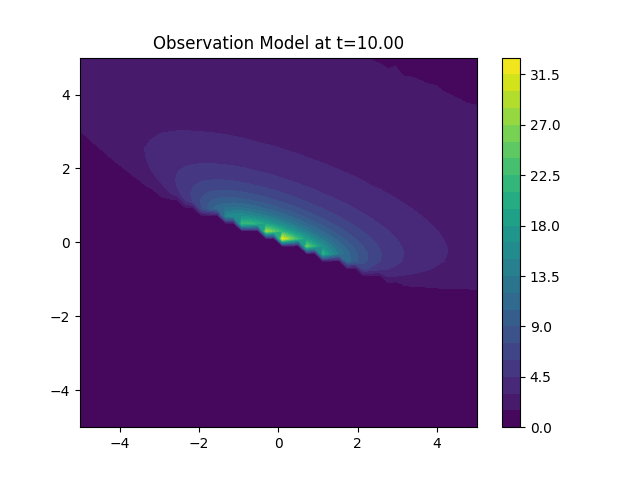
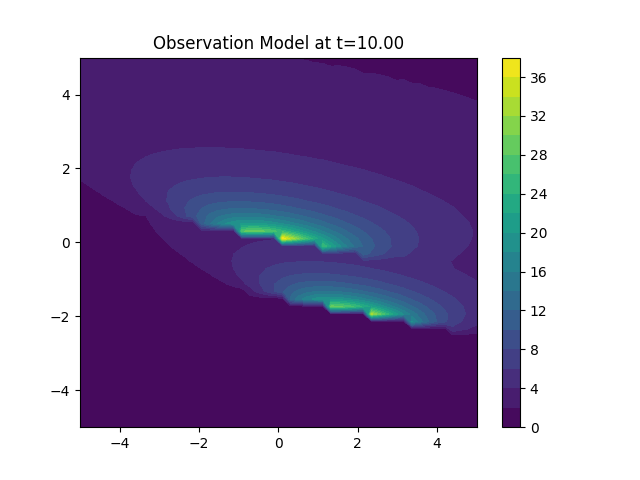
Multiple sources

diff --git a/Code/source_varying_functions.py b/Code/source_varying_functions.py
@@ -89,14 +89,20 @@ def A_matrix(x_sensor, y_sensor, constants, wind_vector=None):
     x_in = np.atleast_1d(x_sensor)
     y_in = np.atleast_1d(y_sensor)
     
-    dx = x_in - XS
-    dy = y_in - YS
+    # Now XS can be a list of x coordinates
+    dxlist = []
+    dylist = []
+    XS = np.atleast_1d(XS)
+    YS = np.atleast_1d(YS)
+    for i in range(len(XS)):
+        dxlist.append(x_in - XS[i])
+        dylist.append(y_in - YS[i])
     
     wind_vec_perp = np.array([-u_vec[1], u_vec[0]]) 
     
     # Project to get Downwind (dist_R) and Crosswind (dist_H) distances
-    dist_R = dx * u_vec[0] + dy * u_vec[1]
-    dist_H = dx * wind_vec_perp[0] + dy * wind_vec_perp[1]
+    dist_R = np.array(dxlist) * u_vec[0] + np.array(dylist) * u_vec[1]
+    dist_H = np.array(dxlist) * wind_vec_perp[0] + np.array(dylist) * wind_vec_perp[1]
     dist_V = Z - ZS 
 
     a_H, b_H = constants['a_H'], constants['b_H']
@@ -146,11 +152,23 @@ def A_matrix(x_sensor, y_sensor, constants, wind_vector=None):
         # Assign back to result
         result[valid_mask] = pre_factor * term_horizontal * term_vertical_total
     
-    # Return scalar if input was scalar
+    # Return result. Shape is (N_sources, N_pixels)
+    # If input was reshaped, we might want to reshape back, but since we have multiple sources,
+    # returning (N_sources, ...) is appropriate.
+    # If x_sensor was scalar, result is (N_sources, 1) -> (N_sources,)
     if np.isscalar(x_sensor) and np.isscalar(y_sensor):
-        return result[0]
+        return result.flatten()
     else:
-        return result.reshape(np.shape(x_sensor))
+        # If x_sensor was (N,), result is (N_sources, N)
+        # If x_sensor was (N, M), result is (N_sources, N*M) because we flattened inputs?
+        # Wait, inputs were np.atleast_1d.
+        # If x_sensor was grid (N, N), flattened to (N*N).
+        # We want to preserve the spatial shape if possible, but with N_sources dimension.
+        # Let's return (N_sources, original_shape)
+        original_shape = np.shape(x_sensor)
+        if len(original_shape) == 0:
+             return result.flatten()
+        return result.reshape((len(XS),) + original_shape)
 
 
 
@@ -170,7 +188,14 @@ class Model:
             A = A_matrix(x_1, x_2, self.physical_constants, wind_vector=current_wind)
         else:
             A = A_matrix(x_1, x_2, self.physical_constants)
-        return A * self.s_function(t, ak, bk, a0) + self.beta + np.random.normal(0, self.sigma_epsilon)
+            
+        # A is (N_sources, ...). Sum contributions.
+        if A.ndim > np.ndim(x_1): # Check if we have extra dimension for sources
+             A_sum = np.sum(A, axis=0)
+        else:
+             A_sum = A
+             
+        return A_sum * self.s_function(t, ak, bk, a0) + self.beta + np.random.normal(0, self.sigma_epsilon)
     # Generate data at Nt time steps
     def gen_data(self,T,Nt,Nx,Lx,ak,bk,a0):
         x_1 = np.linspace(-Lx, Lx, Nx)
@@ -215,8 +240,14 @@ class Model:
                 A = A_matrix(data['X1'], data['X2'], self.physical_constants, wind_vector=current_wind)
             else:
                 A = A_matrix(data['X1'], data['X2'], self.physical_constants)
+            
+            # A is (N_sources, ...). Sum contributions.
+            if A.ndim > data['X1'].ndim:
+                A_sum = np.sum(A, axis=0)
+            else:
+                A_sum = A
                 
-            mu = A*st + self.beta
+            mu = A_sum*st + self.beta
             
             # Get observed data for this time step
             y_obs = data_reshaped[i]

diff --git a/Code/plumes/varying_source.py b/Code/plumes/varying_source.py
@@ -38,8 +38,8 @@ physical_constants = {
     'SIGMA_V': 10.0,  # m, vertical dispersion coefficient
     'N_REFL': 5,      # number of reflections
     'P': 1000.0,      # m, PBL height
-    'XS': 0.0,       # m, source x-coordinate
-    'YS': 0.0,       # m, source y-coordinate
+    'XS': [0.0, 2.0],       # m, source x-coordinate (multiple sources)
+    'YS': [0.0, -2.0],       # m, source y-coordinate (multiple sources)
     'ZS': 0,       # m, source height
     'Z': 0,         # m, sensor height
     'a_H': 1,
